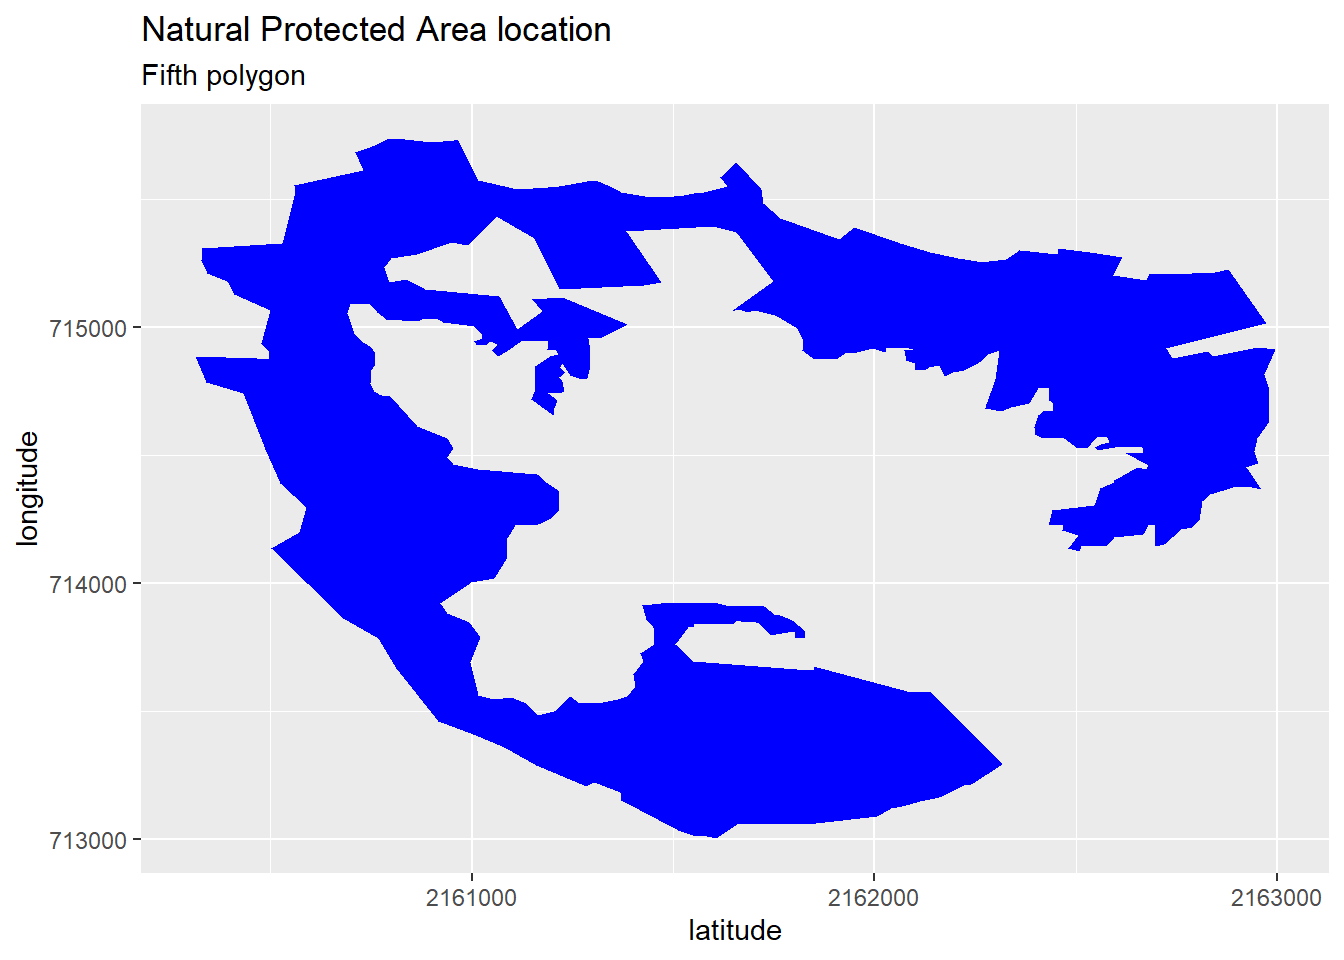
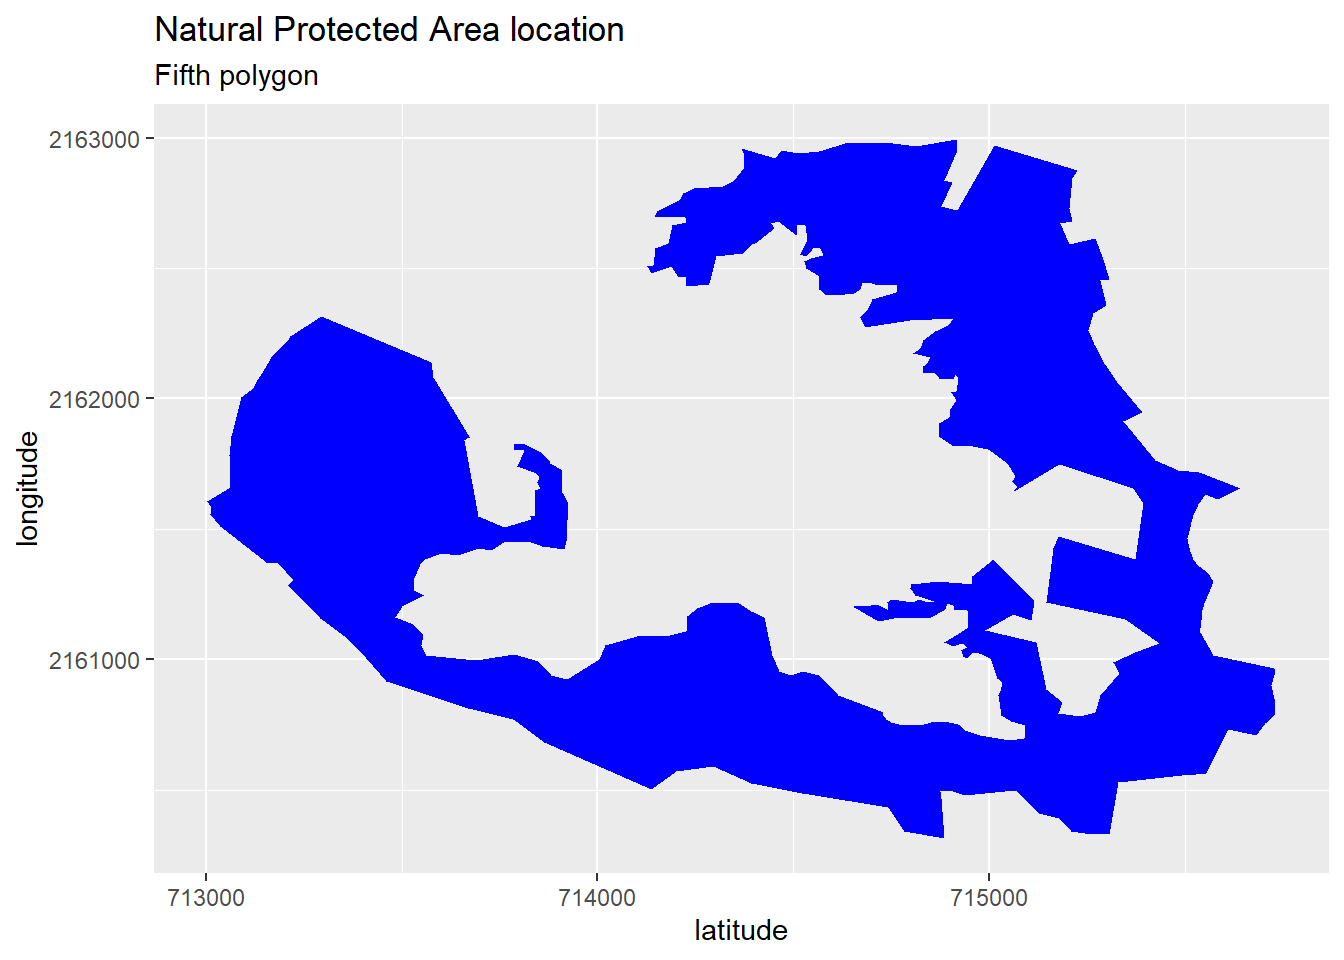
Corrected map polygon.

diff --git a/content/blog/2022-07-02-protected-natural-area-location/index.html b/content/blog/2022-07-02-protected-natural-area-location/index.html
@@ -54,7 +54,7 @@ description: Description for the page
 <p>Then, coordinates in a tidy format where converted to spatial polygons. Such as the one shown below</p>
 <pre><code>## class       : SpatialPolygons 
 ## features    : 1 
-## extent      : 713003.3, 715731.1, 2160313, 2162994  (xmin, xmax, ymin, ymax)
+## extent      : 2160313, 2162994, 713003.3, 715731.1  (xmin, xmax, ymin, ymax)
 ## crs         : +proj=utm +zone=14 +datum=WGS84 +units=m +no_defs</code></pre>
 </div>
 <div id="visualizing-spatial-polygon-in-a-map" class="section level1">

diff --git a/content/resume.md b/content/resume.md
@@ -16,6 +16,20 @@ systems and Data Science.
 # Experience
 
 
+* Research Intern | **Water, Forests and Watersheds Observatory for the State of Veracruz** | _09/2020 - current_
+
+  + Developed a research project to determine the economic value of the domestic use of water in the Pixquiac watershed, Veracruz, México.
+
+
+  + **Mined, cleaned, wrangled and analyzed** water quality and quantity data.
+
+
+  + Constructed a hydrological model of the watershed.
+
+
+  + Developed several **linear and logistic regression models** from fieldwork data.
+  
+  
 * Professor | **Colegio de Estudios Avanzados de Iberoamérica** | _04/2022 - current_
 
 
@@ -24,20 +38,6 @@ systems and Data Science.
 
   + Advise Coatepec municipality’s Ecology Commission on environmental
 management.
-
-
-* Research Intern | **Water, Forests and Watersheds Observatory for the State of Veracruz** | _09/2020 - current_
-
-  + Developed a research project to determine the economic value of the domestic use of water in the Pixquiac watershed, Veracruz, México.
-
-
-  + Mined, cleaned, wrangled and analyzed water quality and quantity data.
-
-
-  + Constructed a hydrological model of the watershed.
-
-
-  + Developed several linear and logistic regression models from fieldwork data.
 
 
 * Environmental Management Analyst | **Coatepec municipality** | _09/2019 - 09/2020_
